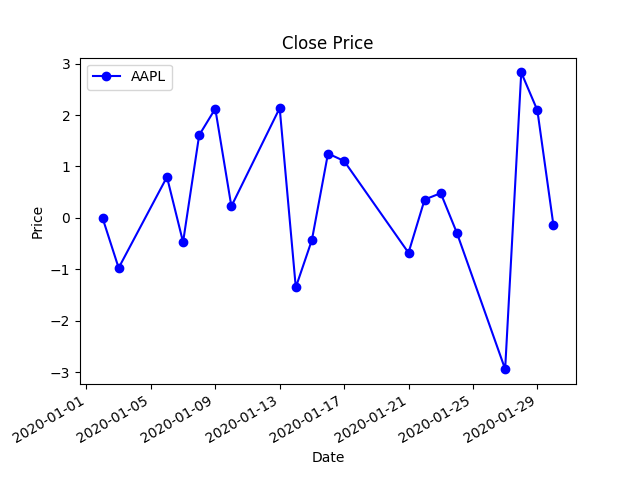
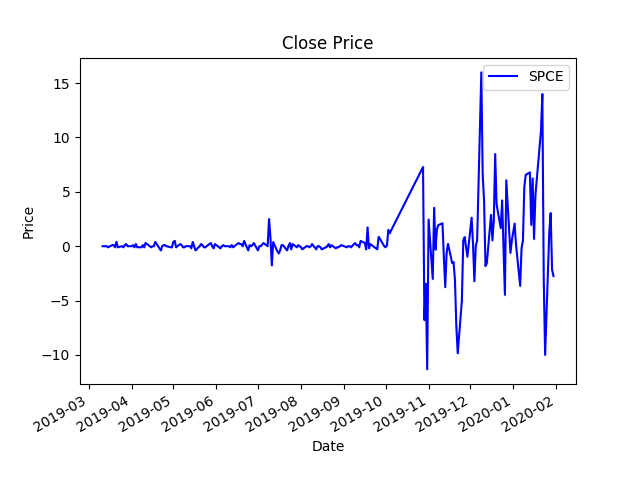
Can select time range

diff --git a/main.js b/main.js
@@ -1,6 +1,10 @@
 let tickers = [];
+let timeRanges = ['5d','1mo','3mo','6mo','1y','2y','5y','10y','ytd','max'];
 
 function graph() {
+    let data = {}
+    data.stocks = tickers;
+    data.time = timeRanges[$('#time-slider').val()];
     var settings = {
         'url': 'http://23.254.164.217:5000/compare',
         'method': 'POST',
@@ -8,7 +12,7 @@ function graph() {
             'Content-Type': 'application/json',
             'Accept': '*/*',
         },
-        'data': '{"stocks":["' + tickers.join("\",\"") + '"]}'
+        'data': JSON.stringify(data)
     }
       
     $.ajax(settings).done(function (response) {
@@ -21,4 +25,8 @@ function addTicker() {
     $('#tickers-list').append('<li>' + $('#ticker-input').val() + '</li>');
     tickers.push($('#ticker-input').val());
     $('#ticker-input').val('')
+}
+
+function sliderUpdate(){
+    $('#time-label').html(timeRanges[$('#time-slider').val()])
 }

diff --git a/index.html b/index.html
@@ -10,6 +10,10 @@
             <input id="ticker-input">
             <button onclick="addTicker()">Add</button>
         </p>
+        <form oninput="sliderUpdate()" id="sliderData">
+            <input id="time-slider" type="range" min="0" max="9" value="1">
+            <span id="time-label">1mo</span>
+        </form>
         <ul id="tickers-list"></ul>
         <button onclick="graph()">Graph</button>
         <script src="main.js"></script>

diff --git a/graphing_utilities.py b/graphing_utilities.py
@@ -5,8 +5,9 @@ from pandas import DataFrame
 from calculation_utilities import add_percent_change
 
 colors = ['blue','green','red','cyan','magenta','yellow','black','white']
+time_ranges = ['1d','5d','1mo','3mo','6mo','1y','2y','5y','10y','ytd','max']
 
-def compare(stocks):
+def compare(stocks,time):
     # Create the plot space upon which to plot the data
     fig, ax = plt.subplots()
     fig.autofmt_xdate()
@@ -14,9 +15,9 @@ def compare(stocks):
     tickers = []
     for i in range(len(stocks)):
         tickers.append(yf.Ticker(stocks[i]))
-        data = tickers[-1].history('ytd')
+        data = tickers[-1].history(time)
         add_percent_change(data)
-        ax.plot(data.index.values, data['Change'], '-o',color=colors[i % len(colors)])
+        ax.plot(data.index.values, data['Change'], '-o', markersize=0.1, color=colors[i % len(colors)])
 
     ax.legend(stocks)
 

diff --git a/app.py b/app.py
@@ -10,5 +10,5 @@ CORS(app)
 @app.route('/compare', methods=['POST'])
 def compare_stocks():
     data = json.loads(request.data.decode('utf8'))
-    compare(data['stocks'])
+    compare(data['stocks'],data['time'])
     return {'message':'Success'}
